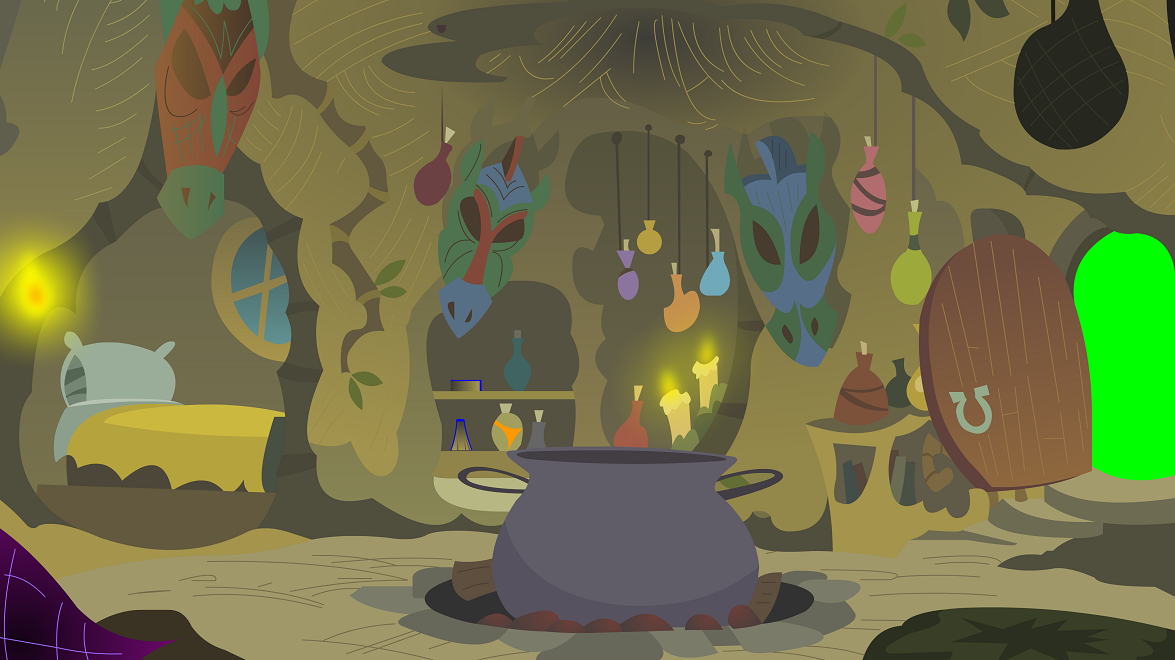
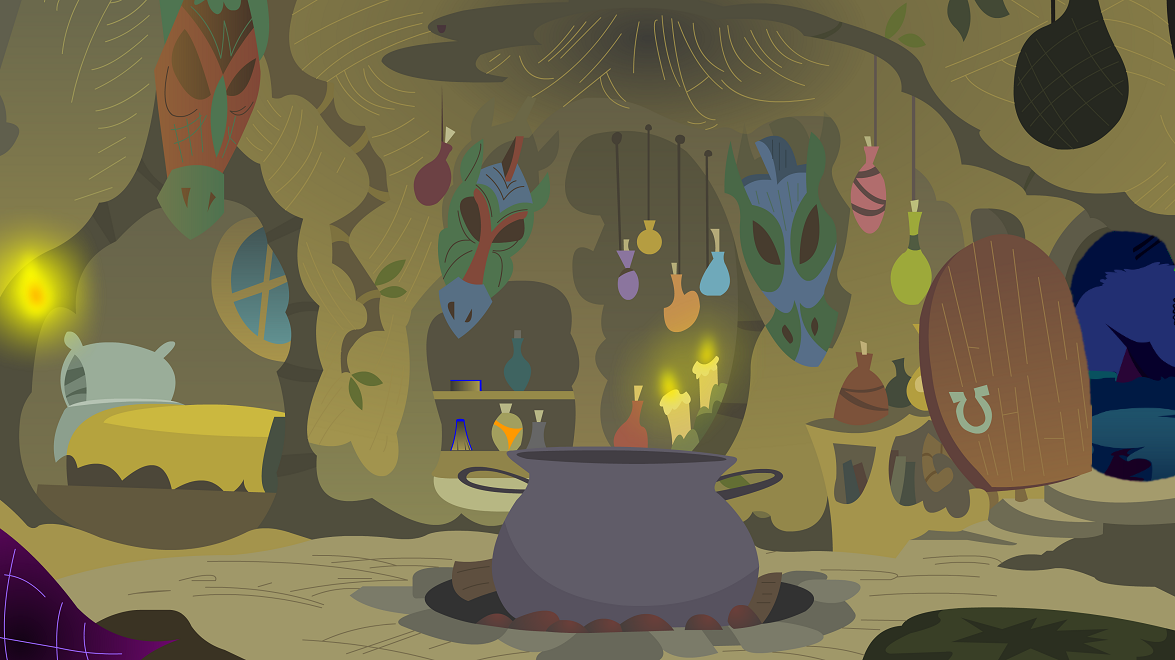
Portalised much of ponyville; Added incomplete world map

Changed region(s): [[0.8885, 0.3333, 1.0, 0.7273]]

diff --git a/htdocs/credits.html b/htdocs/credits.html
@@ -14,7 +14,8 @@
 <br>Cadence avatar by <a href="http://www.youtube.com/watch?v=fmolrZ7fqxs">BlackPawed on YouTube</a>, &copy; 2012 BlackPawed.
 <br>Queen Chrysalis avatar by <a href="http://botchan-mlp.deviantart.com/art/Queen-Chrysalis-idle-316653404">Botchan-MLP on DeviantArt</a> (<a href="http://botchan-mlp.deviantart.com/art/Queen-Chrysalis-trotting-335530485">walk animation</a>), &copy; 2012 Botchan-MLP.
 <br>Changeling avatar by <a href="http://botchan-mlp.deviantart.com/art/Changeling-idle-322409436">Botchan-MLP on DeviantArt</a> (<a href="http://botchan-mlp.deviantart.com/art/Changeling-trotting-312083029">walk animation</a>), &copy; 2012 Botchan-MLP.</p>
-<p>Party barn background by <a ref="http://goblinengineer.deviantart.com/art/Party-Barn-Background-316149529">GoblinEngineer on DeviantArt</a>, &copy; 2012 GoblinEngineer.
+<p>World Map background edited by <a href="http://austiniousi.deviantart.com/art/HD-Map-of-Equestria-Official-319045269">Austiniousi on DeviantArt</a>.
+<br>Party barn background by <a href="http://goblinengineer.deviantart.com/art/Party-Barn-Background-316149529">GoblinEngineer on DeviantArt</a>, &copy; 2012 GoblinEngineer.
 <br>Discordville background by <a href="http://hombre0.deviantart.com/art/Discorded-Landscape-Vector-282448367">hombre0 on DeviantArt</a>, &copy; 2012 hombr0.
 <br>Ponyville background from <a href="http://mlp.wikia.com/wiki/File:AiP_Ponyvillehouses.png">here</a>, licensing unknown.
 <br>Outside the Library background by <a href="http://somepony.deviantart.com/art/The-Library-283860483">Somepony on DeviantArt</a>, &copy; 2012 Somepony.

diff --git a/htdocs/style.css b/htdocs/style.css
@@ -316,7 +316,8 @@ input[type=submit]:not([disabled]):hover, .button:not([disabled]):hover, button:
 }
 
 .portal {
-    background-color: rgba(255, 127, 0, 0.3);
+    background-color: rgba(255, 127, 0, 0.25);
+    border-radius: 10px;
 }
 .portal:hover {
     cursor: pointer;
